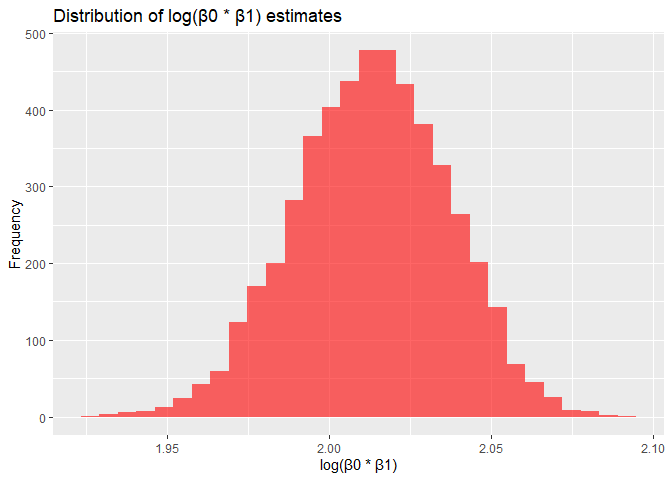
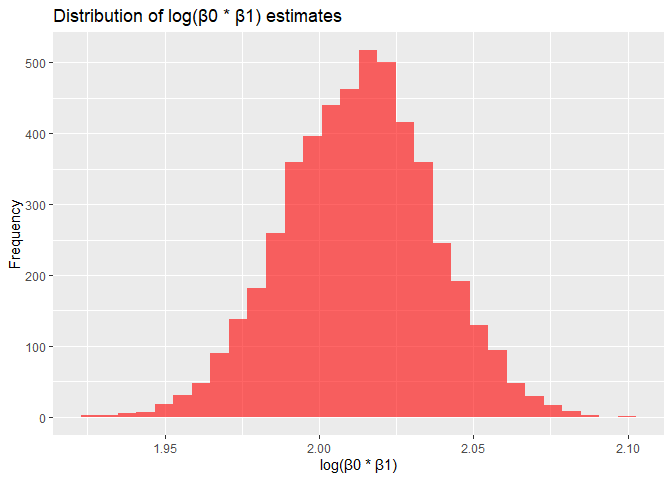
knit document to check format

diff --git a/p8105_hw6_zw2975.md b/p8105_hw6_zw2975.md
@@ -1,7 +1,7 @@
 p8105_hw6_zw2975
 ================
 Zhiyu Wei
-2024-11-14
+2024-12-1
 
 ## Problem 1
 
@@ -104,14 +104,14 @@ print(ci_r_squared)
 ```
 
     ##      2.5%     97.5% 
-    ## 0.8938241 0.9273183
+    ## 0.8942238 0.9273321
 
 ``` r
 print(ci_log_beta)
 ```
 
     ##     2.5%    97.5% 
-    ## 1.965666 2.057098
+    ## 1.965842 2.059579
 
 ## Problem 2
 
@@ -143,32 +143,6 @@ balt = homic |>
 # predictors are sex, age, and race of victims (in Baltimore, MD)
 balt_fit = glm(resolved ~ victim_age + victim_race + victim_sex, data = balt, family = binomial()) 
 
-summary(balt_fit)
-```
-
-    ## 
-    ## Call:
-    ## glm(formula = resolved ~ victim_age + victim_race + victim_sex, 
-    ##     family = binomial(), data = balt)
-    ## 
-    ## Coefficients:
-    ##                   Estimate Std. Error z value Pr(>|z|)    
-    ## (Intercept)       0.309981   0.171295   1.810   0.0704 .  
-    ## victim_age       -0.006727   0.003324  -2.024   0.0430 *  
-    ## victim_raceWhite  0.841756   0.174716   4.818 1.45e-06 ***
-    ## victim_sexMale   -0.854463   0.138176  -6.184 6.26e-10 ***
-    ## ---
-    ## Signif. codes:  0 '***' 0.001 '**' 0.01 '*' 0.05 '.' 0.1 ' ' 1
-    ## 
-    ## (Dispersion parameter for binomial family taken to be 1)
-    ## 
-    ##     Null deviance: 3567.9  on 2752  degrees of freedom
-    ## Residual deviance: 3492.7  on 2749  degrees of freedom
-    ## AIC: 3500.7
-    ## 
-    ## Number of Fisher Scoring iterations: 4
-
-``` r
 # Extracing CIs and OR
 balt_results = broom::tidy(balt_fit, conf.int = TRUE) |>
   filter(term == "victim_sexMale") |>
@@ -252,52 +226,6 @@ bw = bw |>
 # Regression model
 bw_model = lm(bwt ~ gaweeks + delwt + smoken + babysex + mrace * frace, data = bw)
 
-summary(bw_model)
-```
-
-    ## 
-    ## Call:
-    ## lm(formula = bwt ~ gaweeks + delwt + smoken + babysex + mrace * 
-    ##     frace, data = bw)
-    ## 
-    ## Residuals:
-    ##      Min       1Q   Median       3Q      Max 
-    ## -1691.77  -259.21     4.06   270.49  1501.77 
-    ## 
-    ## Coefficients: (1 not defined because of singularities)
-    ##                                      Estimate Std. Error t value Pr(>|t|)    
-    ## (Intercept)                          423.9941    91.6925   4.624 3.87e-06 ***
-    ## gaweeks                               54.6678     2.0992  26.042  < 2e-16 ***
-    ## delwt                                  5.8988     0.2962  19.914  < 2e-16 ***
-    ## smoken                               -11.8244     0.9029 -13.095  < 2e-16 ***
-    ## babysex                              -90.1915    12.9283  -6.976 3.49e-12 ***
-    ## mraceBlack                          -276.4213   160.7053  -1.720   0.0855 .  
-    ## mraceAsian                          -362.2515   212.4741  -1.705   0.0883 .  
-    ## mracePuerto Rican                   -130.9048   113.8108  -1.150   0.2501    
-    ## fraceBlack                          -120.9991   106.5775  -1.135   0.2563    
-    ## fraceAsian                          -153.2831   150.3417  -1.020   0.3080    
-    ## fracePuerto Rican                   -195.1451   110.1275  -1.772   0.0765 .  
-    ## fraceOther                          -133.4604   134.5450  -0.992   0.3213    
-    ## mraceBlack:fraceBlack                100.1548   192.8250   0.519   0.6035    
-    ## mraceAsian:fraceBlack                435.1351   486.4242   0.895   0.3711    
-    ## mracePuerto Rican:fraceBlack          16.6713   263.1648   0.063   0.9495    
-    ## mraceBlack:fraceAsian                441.2955   478.0301   0.923   0.3560    
-    ## mraceAsian:fraceAsian                466.2440   269.5277   1.730   0.0837 .  
-    ## mracePuerto Rican:fraceAsian         104.9440   464.3978   0.226   0.8212    
-    ## mraceBlack:fracePuerto Rican         148.4038   245.7219   0.604   0.5459    
-    ## mraceAsian:fracePuerto Rican         929.6352   487.0814   1.909   0.0564 .  
-    ## mracePuerto Rican:fracePuerto Rican  187.5553   160.6133   1.168   0.2430    
-    ## mraceBlack:fraceOther                535.7351   322.5029   1.661   0.0967 .  
-    ## mraceAsian:fraceOther                466.1802   493.5156   0.945   0.3449    
-    ## mracePuerto Rican:fraceOther               NA         NA      NA       NA    
-    ## ---
-    ## Signif. codes:  0 '***' 0.001 '**' 0.01 '*' 0.05 '.' 0.1 ' ' 1
-    ## 
-    ## Residual standard error: 424.3 on 4319 degrees of freedom
-    ## Multiple R-squared:  0.317,  Adjusted R-squared:  0.3135 
-    ## F-statistic:  91.1 on 22 and 4319 DF,  p-value: < 2.2e-16
-
-``` r
 # Add predictions and residuals to the data
 bw = bw |>
   add_predictions(bw_model, var = "fitted") |>
@@ -369,7 +297,7 @@ print(rmse_summary)
     ## # A tibble: 1 × 6
     ##   mean_rmse_bw mean_rmse_m1 mean_rmse_m2 sd_rmse_bw sd_rmse_m1 sd_rmse_m2
     ##          <dbl>        <dbl>        <dbl>      <dbl>      <dbl>      <dbl>
-    ## 1         424.         324.         284.       9.46       11.7       6.79
+    ## 1         425.         322.         282.       11.9       9.27       8.31
 
 ###### Comment
 
